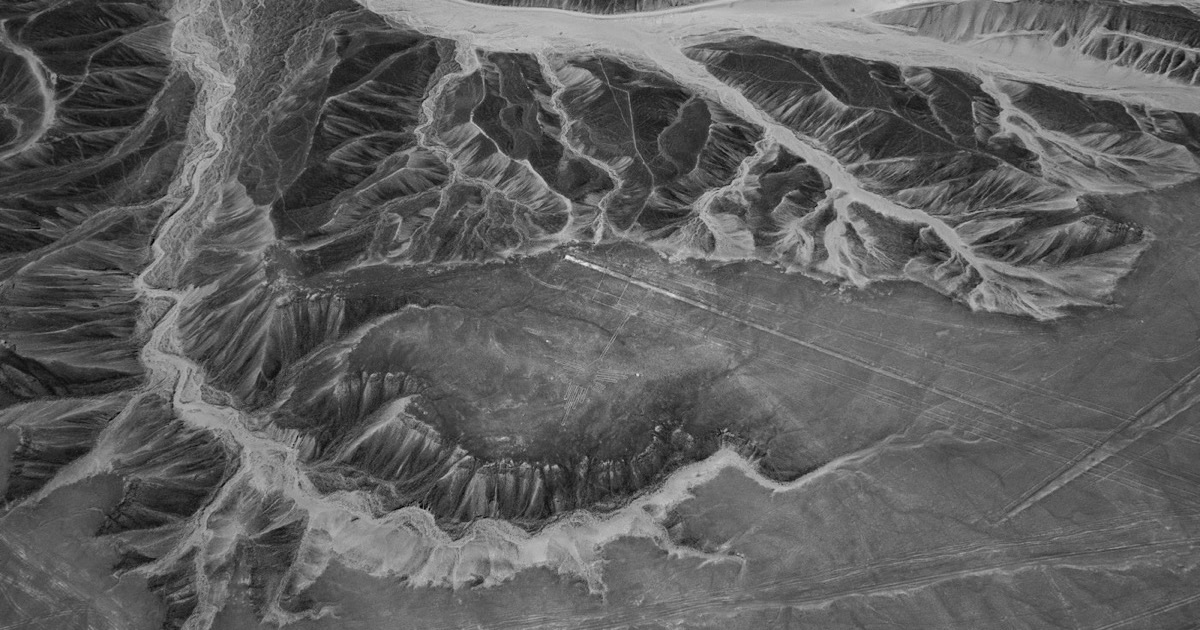
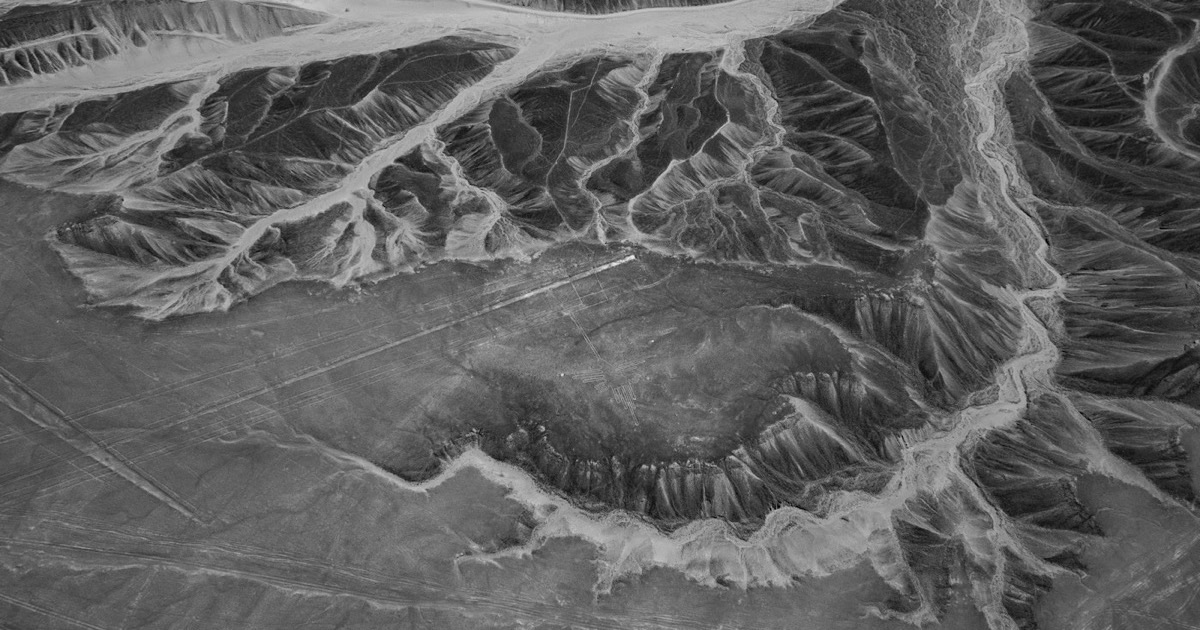
docs: Flip the cover image, resize two examples and set Literata on the post card

diff --git a/examples/presets/post.ts b/examples/presets/post.ts
@@ -20,7 +20,7 @@ const style: Style = {
     accent: '#e0452b',
   },
   fonts: {
-    title: 'gloock',
+    title: 'literata',
     body: 'dm-sans',
     label: 'dm-sans',
   },
@@ -28,8 +28,8 @@ const style: Style = {
     headlinePosition: 'bottom',
     barHeight: 12,
     headerText: 28,
-    titleWeight: 400,
-    titleTracking: '-0.005em',
+    titleWeight: 700,
+    titleTracking: '-0.02em',
   },
 }
 

diff --git a/examples/presets/personal.ts b/examples/presets/personal.ts
@@ -36,7 +36,7 @@ const style: Style = {
     titleText: 76,
     titleWeight: 500,
     titleTracking: '-0.04em',
-    descriptionText: 76,
+    descriptionText: 64,
     descriptionTracking: '-0.04em',
     descriptionLineHeight: 1.15,
   },

diff --git a/examples/presets/cover.ts b/examples/presets/cover.ts
@@ -31,6 +31,7 @@ const style: Style = {
     label: 'geist-mono',
   },
   sizes: {
+    titleTextLong: 64,
     titleWeight: 700,
     titleTracking: '-0.02em',
     headerTracking: '-0.03em',

diff --git a/README.md b/README.md
@@ -37,7 +37,7 @@ Each card below is rendered from a preset in [examples](examples). Click a card 
 | | |
 |---|---|
 | [![Docs page on a dark theme with the dot rail](examples/output/docs.png)](examples/presets/docs.ts) | [![Book club card in Young Serif and IBM Plex Mono on red with a painting on the right](examples/output/bookclub.png)](examples/presets/bookclub.ts) |
-| [![Essay in DM Serif Display and Inter with a still life on the left and right-aligned text](examples/output/editorial.png)](examples/presets/editorial.ts) | [![Blog post in Gloock and DM Sans with the headline at the bottom and an accent bar](examples/output/post.png)](examples/presets/post.ts) |
+| [![Essay in DM Serif Display and Inter with a still life on the left and right-aligned text](examples/output/editorial.png)](examples/presets/editorial.ts) | [![Blog post in Literata and DM Sans with the headline at the bottom and an accent bar](examples/output/post.png)](examples/presets/post.ts) |
 | [![Wordmark card in JetBrains Mono](examples/output/wordmark.png)](examples/presets/wordmark.ts) | [![Research post in Epunda Slab with yellow text over a full-bleed aerial photo of a river](examples/output/cover.png)](examples/presets/cover.ts) |
 | [![Changelog card in Space Mono and Space Grotesk on blue with the dot rail](examples/output/launch.png)](examples/presets/launch.ts) | [![Personal card with an icon and a name and role in Commit Mono](examples/output/personal.png)](examples/presets/personal.ts) |
 | [![Landing page in Bricolage Grotesque with centered text](examples/output/centered.png)](examples/presets/centered.ts) | [![Research post in Geist and Geist Mono on black with a paint swirl on the right](examples/output/research.png)](examples/presets/research.ts) |
